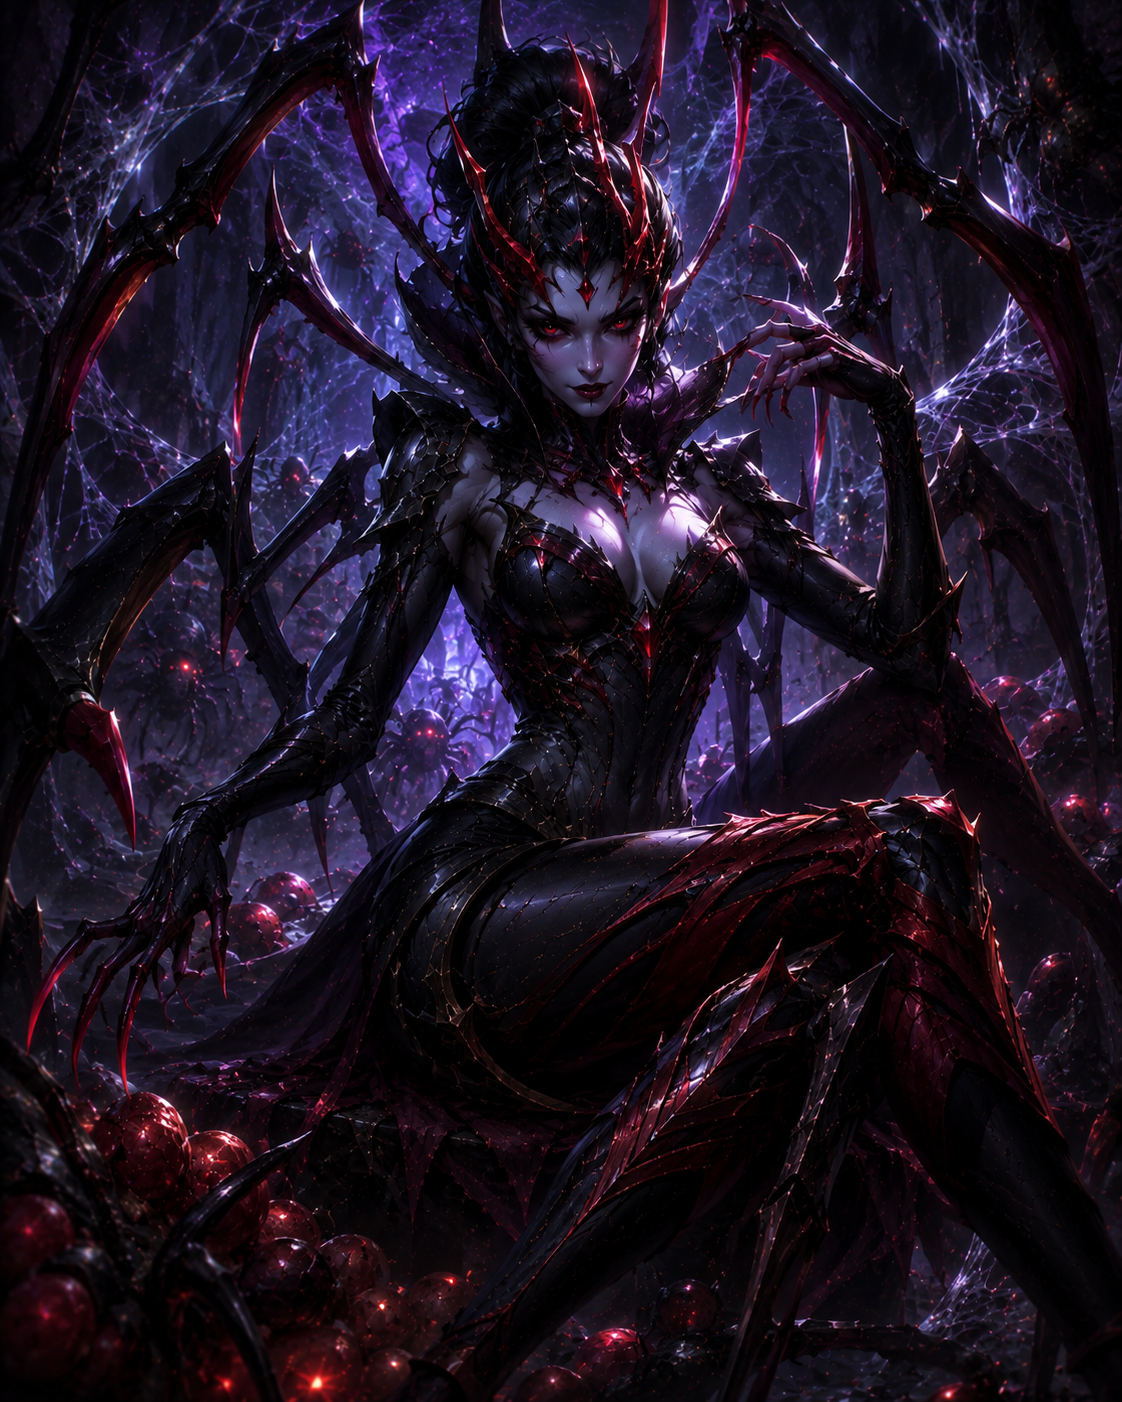
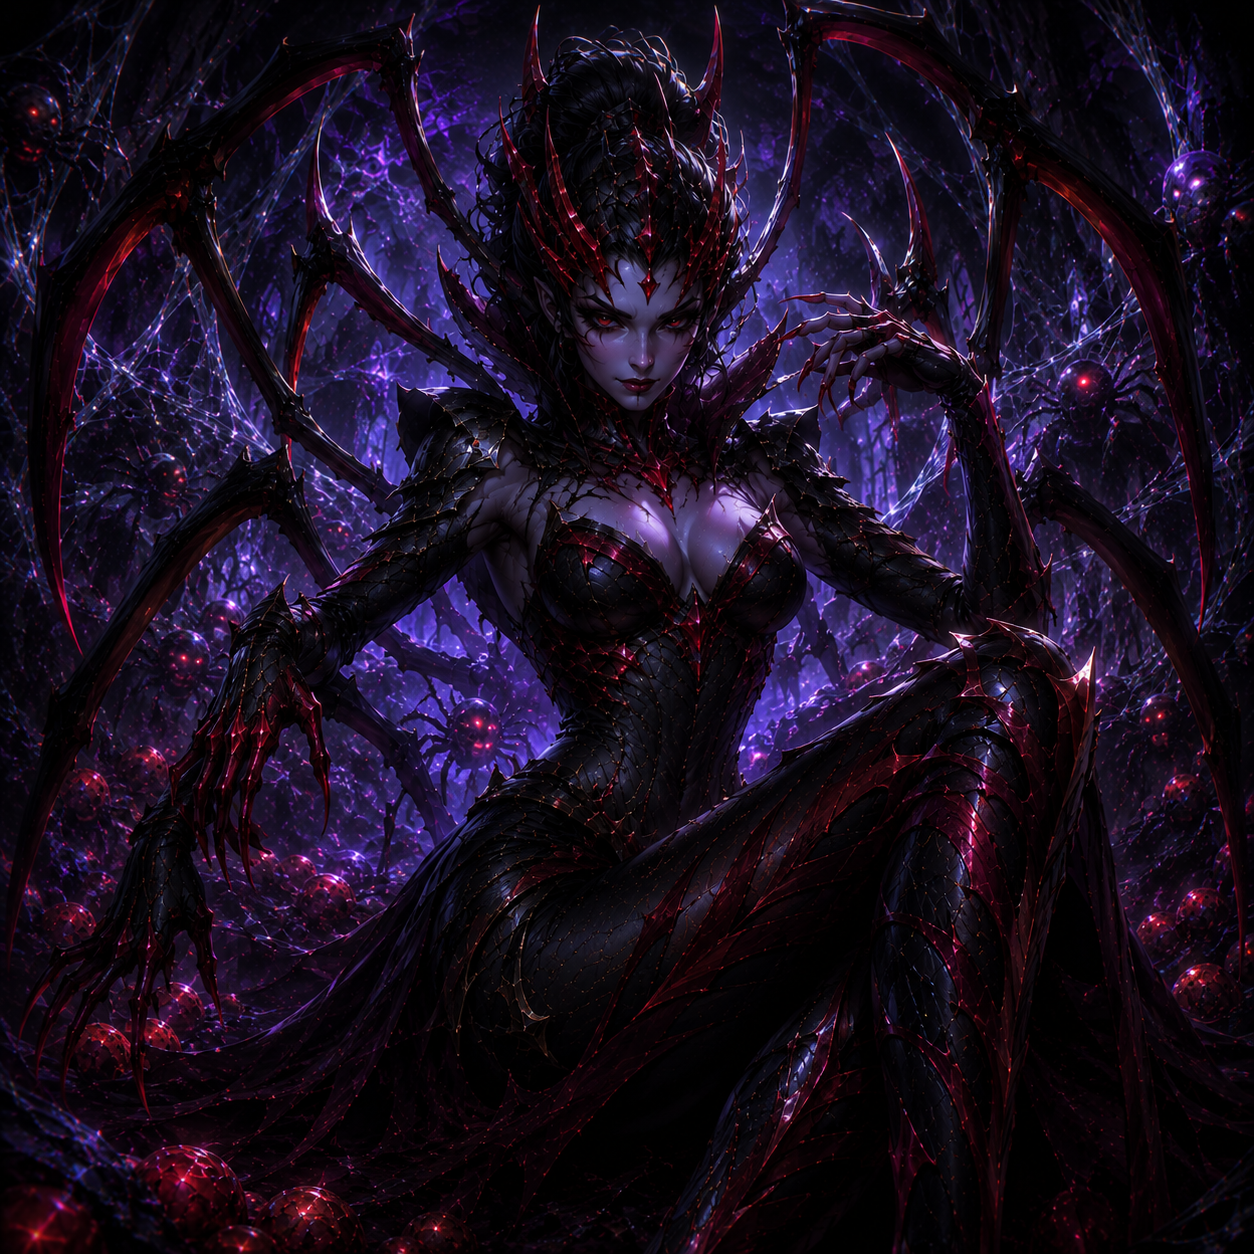
v1.16.1 - cache persistant des portraits de champions (téléchargés une seule fois)
Le service worker ne stockait jamais les portraits de champions en cache :
chaque affichage (draft, écran Champions, mini-carte) retéléchargeait les
images depuis le réseau, rendant le chargement lent.

Nouveau cache dédié IMAGE_CACHE_NAME, volontairement NON versionné (contrairement
au cache du code applicatif, purgé à chaque mise à jour) : chaque portrait est
téléchargé une seule fois puis servi instantanément depuis l'appareil, y compris
après les prochaines mises à jour du jeu.

Inclut aussi le reste du roster de champions ajouté par l'utilisateur (173/173
champions ont maintenant une image), et un fix de casse sur nautilus.png (même
classe de bug que le dossier img/Champions/ corrigé en 1.16.0).

diff --git a/sw.js b/sw.js
@@ -1,15 +1,20 @@
-const CACHE_NAME = 'lol-esport-manager-v1.16.0';
+const CACHE_NAME = 'lol-esport-manager-v1.16.1';
+/* Cache dédié aux portraits de champions, volontairement NON versionné :
+   contrairement au reste (CACHE_NAME, purgé à chaque mise à jour pour forcer
+   le rechargement du code), les images ne doivent être téléchargées qu'une
+   seule fois par le joueur, y compris à travers les futures mises à jour. */
+const IMAGE_CACHE_NAME = 'lol-esport-manager-champion-images';
 const ASSETS = [
   '/',
   '/index.html',
-  '/style.css?v=1.16.0',
-  '/lang.js?v=1.16.0',
-  '/game.js?v=1.16.0',
-  '/map.js?v=1.16.0',
-  '/data_teams.js?v=1.16.0',
-  '/data_champions.js?v=1.16.0',
-  '/data_counters.js?v=1.16.0',
-  '/data_transfers.js?v=1.16.0',
+  '/style.css?v=1.16.1',
+  '/lang.js?v=1.16.1',
+  '/game.js?v=1.16.1',
+  '/map.js?v=1.16.1',
+  '/data_teams.js?v=1.16.1',
+  '/data_champions.js?v=1.16.1',
+  '/data_counters.js?v=1.16.1',
+  '/data_transfers.js?v=1.16.1',
   '/img/logo.png',
   '/img/logoV2.png',
   '/img/map.png',
@@ -30,13 +35,34 @@ self.addEventListener('install', event => {
 self.addEventListener('activate', event => {
   event.waitUntil(
     caches.keys().then(keys =>
-      Promise.all(keys.filter(k => k !== CACHE_NAME).map(k => caches.delete(k)))
+      Promise.all(keys.filter(k => k !== CACHE_NAME && k !== IMAGE_CACHE_NAME).map(k => caches.delete(k)))
     )
   );
   self.clients.claim();
 });
 
 self.addEventListener('fetch', event => {
+  const url = new URL(event.request.url);
+
+  // Portraits de champions : cache-first persistant. Téléchargés une seule
+  // fois au premier affichage (draft, liste Champions, mini-carte de match),
+  // puis servis depuis le cache à chaque session suivante — pas de re-téléchargement,
+  // et pas de purge à chaque mise à jour de version (IMAGE_CACHE_NAME est stable).
+  if (url.pathname.startsWith('/img/champions/')) {
+    event.respondWith(
+      caches.open(IMAGE_CACHE_NAME).then(cache =>
+        cache.match(event.request).then(cached => {
+          if (cached) return cached;
+          return fetch(event.request).then(response => {
+            if (response && response.ok) cache.put(event.request, response.clone());
+            return response;
+          });
+        })
+      )
+    );
+    return;
+  }
+
   event.respondWith(
     caches.match(event.request).then(cached => cached || fetch(event.request))
   );

diff --git a/index.html b/index.html
@@ -9,7 +9,7 @@
   <link rel="apple-touch-icon" sizes="180x180" href="img/apple-touch-icon.png" />
   <link rel="manifest" href="manifest.json" />
   <meta name="theme-color" content="#080C14" />
-  <link rel="stylesheet" href="style.css?v=1.16.0" />
+  <link rel="stylesheet" href="style.css?v=1.16.1" />
 </head>
 <body>
 
@@ -389,7 +389,7 @@
   <!-- ===================== FOOTER ===================== -->
   <footer class="app-footer">
     <span class="footer-beta">BETA</span>
-    LOL Esport Manager v1.16.0 &mdash; <span data-i18n="footer.tagline">Jeu de gestion d'&eacute;quipe esport League of Legends</span> &mdash;
+    LOL Esport Manager v1.16.1 &mdash; <span data-i18n="footer.tagline">Jeu de gestion d'&eacute;quipe esport League of Legends</span> &mdash;
     <button onclick="showChangelogModal()" class="footer-link footer-link--btn" data-i18n="footer.changelog">Changelog</button>
     <span class="footer-copy" data-i18n="footer.copyright">&copy; 2026 redbaron1308 &mdash; Tous droits r&eacute;serv&eacute;s. Concept et design prot&eacute;g&eacute;s par la propri&eacute;t&eacute; intellectuelle.</span>
     <span class="footer-copy" data-i18n="footer.localStorage">Les donn&eacute;es de progression sont stock&eacute;es localement dans votre navigateur (localStorage) et ne sont jamais transmises &agrave; des tiers.</span>
@@ -411,12 +411,12 @@
       navigator.serviceWorker.register('/sw.js');
     }
   </script>
-  <script src="lang.js?v=1.16.0"></script>
-  <script src="data_teams.js?v=1.16.0"></script>
-  <script src="data_champions.js?v=1.16.0"></script>
-  <script src="data_counters.js?v=1.16.0"></script>
-  <script src="data_transfers.js?v=1.16.0"></script>
-  <script src="map.js?v=1.16.0"></script>
-  <script src="game.js?v=1.16.0"></script>
+  <script src="lang.js?v=1.16.1"></script>
+  <script src="data_teams.js?v=1.16.1"></script>
+  <script src="data_champions.js?v=1.16.1"></script>
+  <script src="data_counters.js?v=1.16.1"></script>
+  <script src="data_transfers.js?v=1.16.1"></script>
+  <script src="map.js?v=1.16.1"></script>
+  <script src="game.js?v=1.16.1"></script>
 </body>
 </html>

diff --git a/CHANGELOG.en.md b/CHANGELOG.en.md
@@ -5,6 +5,14 @@ Format based on [Keep a Changelog](https://keepachangelog.com/en/1.0.0/).
 
 ---
 
+## [1.16.1] — 2026-07-09
+
+### Fixed — Much faster champion portrait loading
+
+Champion portraits (draft, Champions screen, match mini-map) were being re-downloaded every time, which made loading slow. The service worker now caches each portrait the first time it's viewed: every time after that, the image shows up instantly from the device, without going back to the network — even across future game updates (only the app code is refreshed each version, not the images already downloaded).
+
+---
+
 ## [1.16.0] — 2026-07-08
 
 ### Added — Champion portraits and a redesigned draft screen

diff --git a/CHANGELOG.md b/CHANGELOG.md
@@ -5,6 +5,14 @@ Format basé sur [Keep a Changelog](https://keepachangelog.com/fr/1.0.0/).
 
 ---
 
+## [1.16.1] — 2026-07-09
+
+### Corrigé — Chargement des portraits de champions bien plus rapide
+
+Les portraits de champions (draft, écran Champions, mini-carte de match) étaient retéléchargés à chaque fois, ce qui rendait le chargement lent. Le service worker les met désormais en cache dès la première consultation d'un portrait : les fois suivantes, l'image s'affiche instantanément depuis l'appareil, sans repasser par le réseau — y compris après les prochaines mises à jour du jeu (seul le code applicatif est renouvelé à chaque version, pas les images déjà téléchargées).
+
+---
+
 ## [1.16.0] — 2026-07-08
 
 ### Ajouté — Portraits de champions et nouvelle mise en page de la draft